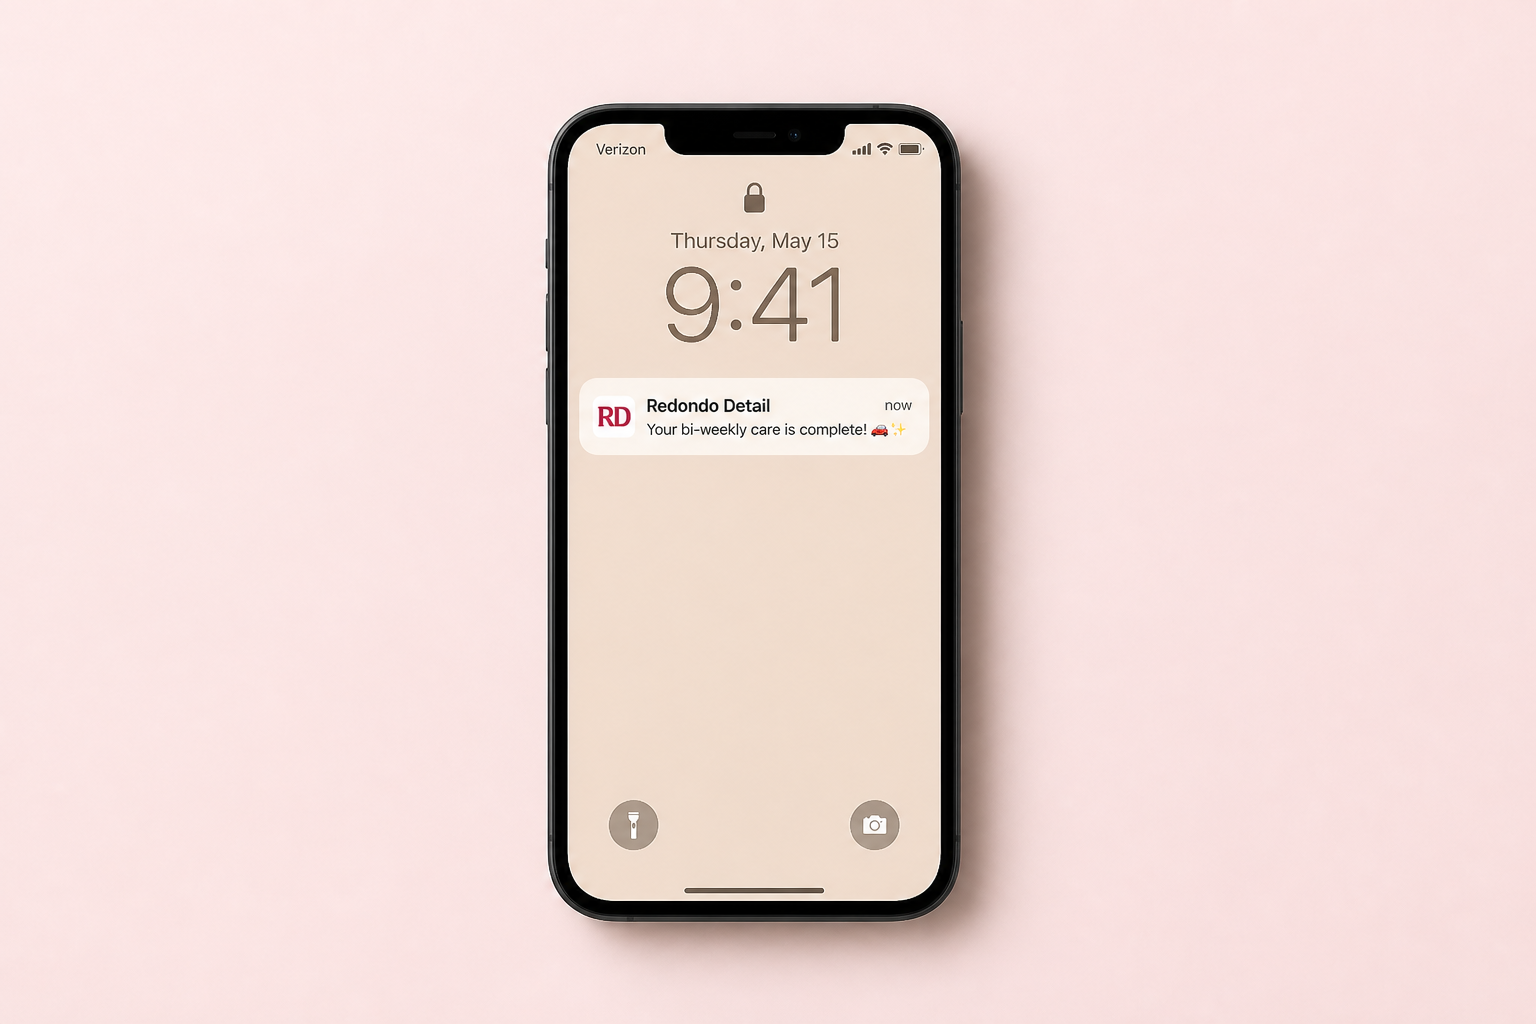
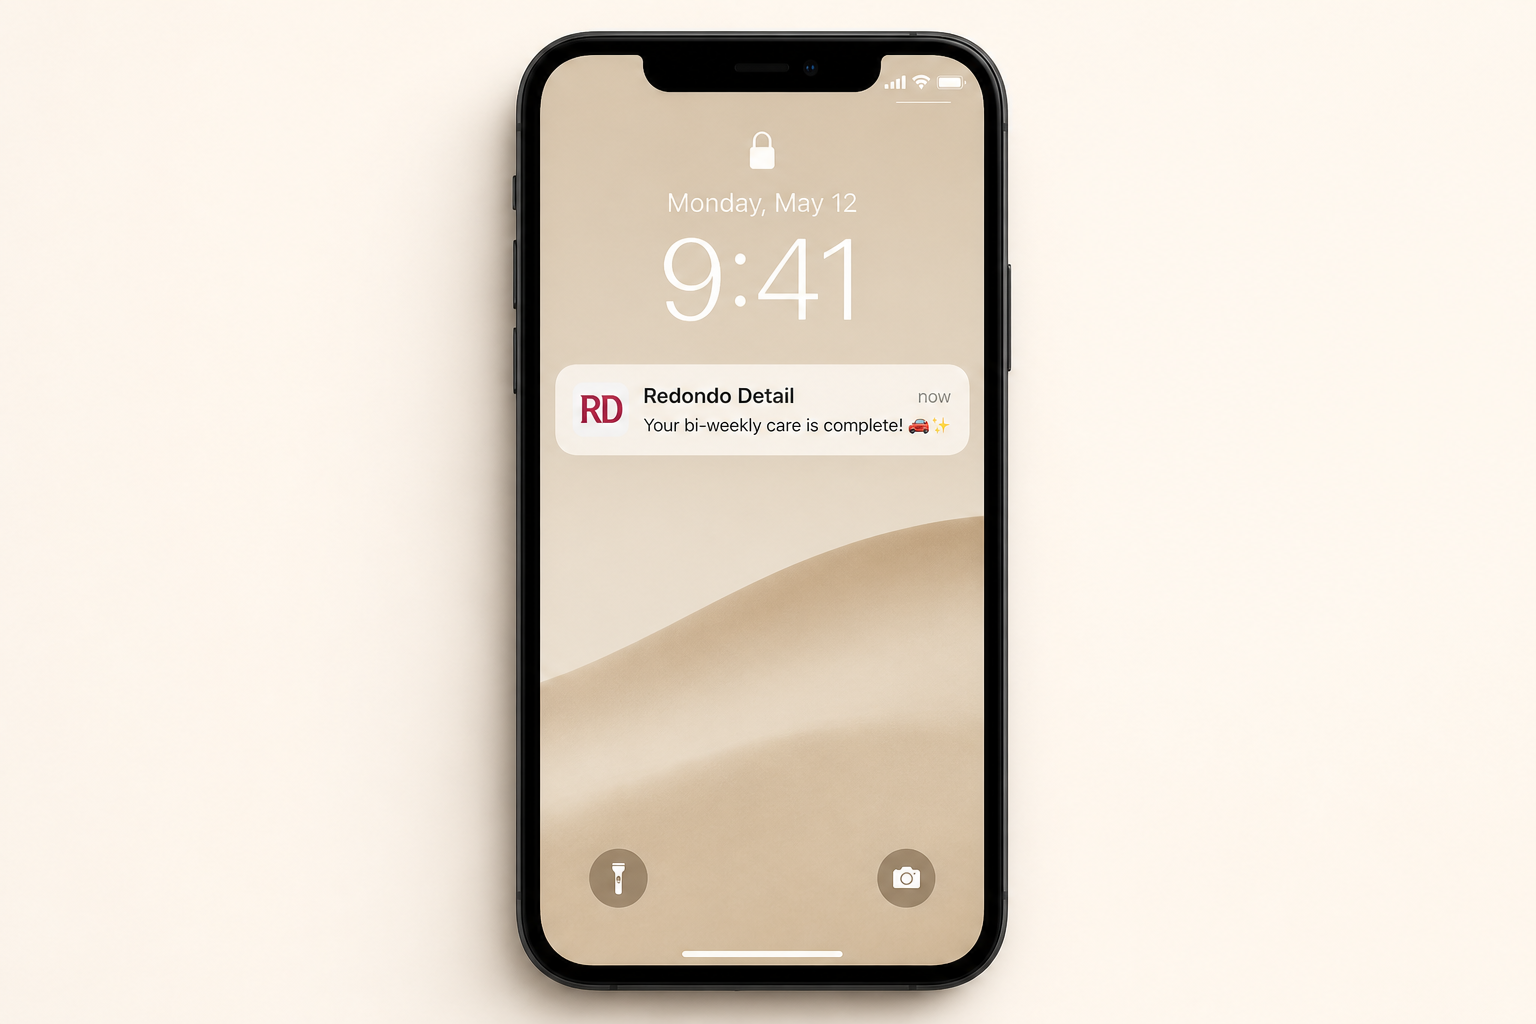
Polish section headlines and Zero Friction visuals for stronger post-proof hierarchy.

Changed region(s): [[0.2812, 0.0312, 0.6875, 1.0], [0.75, 0.875, 1.0, 1.0], [0.9688, 0.4062, 1.0, 0.4375]]

diff --git a/src/components/landing/zero-friction.tsx b/src/components/landing/zero-friction.tsx
@@ -34,8 +34,8 @@ export function ZeroFriction() {
   return (
     <section id="zero-friction" className="bg-white pb-6 pt-16 sm:pb-8 sm:pt-20">
       <div className="mx-auto max-w-7xl px-4 sm:px-6 lg:px-8">
-        <h2 className="text-center font-serif text-3xl tracking-tight text-charcoal sm:text-4xl">
-          Zero Friction
+        <h2 className="text-center text-4xl font-semibold tracking-tight text-charcoal sm:text-5xl">
+          Set It Once. Enjoy All Year.
         </h2>
 
         <div className="mt-12 grid gap-10 md:grid-cols-3 md:gap-8">
@@ -48,7 +48,7 @@ export function ZeroFriction() {
               transition={{ delay: i * 0.08, duration: 0.4 }}
               className="text-center md:text-left"
             >
-              <div className="relative mb-5 aspect-[4/3] overflow-hidden rounded-2xl bg-pink-light">
+              <div className="relative mb-5 aspect-[4/3] overflow-hidden rounded-2xl bg-beige">
                 <Image
                   src={step.image}
                   alt={step.alt}

diff --git a/src/components/landing/coastal-stack.tsx b/src/components/landing/coastal-stack.tsx
@@ -2,7 +2,6 @@
 
 import { motion } from "framer-motion";
 import { Waves, Wind, Sun } from "lucide-react";
-import { Badge } from "@/components/ui/badge";
 import { Card, CardContent, CardHeader, CardTitle } from "@/components/ui/card";
 
 const coastalItems = [
@@ -31,10 +30,7 @@ export function CoastalStack() {
     <section id="coastal-care" className="bg-white py-20 sm:py-24">
       <div className="mx-auto max-w-7xl px-4 sm:px-6 lg:px-8">
         <div className="mx-auto max-w-3xl text-center">
-          <Badge variant="default" className="mb-4">
-            Engineered For Coastal Life
-          </Badge>
-          <h2 className="font-serif text-3xl leading-tight text-burgundy sm:text-4xl">
+          <h2 className="text-4xl font-semibold leading-tight tracking-tight text-charcoal sm:text-5xl">
             Coastal Protection System
           </h2>
           <p className="mt-4 text-slate">

diff --git a/src/components/landing/pricing.tsx b/src/components/landing/pricing.tsx
@@ -29,7 +29,7 @@ export function Pricing() {
       <section id="pricing" className="bg-white py-20 sm:py-28">
         <div className="mx-auto max-w-7xl px-4 sm:px-6 lg:px-8">
           <div className="mx-auto max-w-2xl text-center">
-            <h2 className="font-serif text-3xl tracking-tight text-charcoal sm:text-4xl">
+            <h2 className="text-4xl font-semibold tracking-tight text-charcoal sm:text-5xl">
               Simple, Transparent Pricing
             </h2>
             <p className="mt-4 text-slate">

diff --git a/src/components/landing/redondo-promise.tsx b/src/components/landing/redondo-promise.tsx
@@ -40,7 +40,7 @@ export function RedondoPromise({
           <div className="mx-auto mb-4 flex size-12 items-center justify-center rounded-full bg-dusty-rose/50">
             <Shield className="size-6 text-burgundy" />
           </div>
-          <h2 className="font-serif text-2xl text-burgundy sm:text-3xl">
+          <h2 className="text-3xl font-semibold text-burgundy sm:text-4xl">
             {title}
           </h2>
           <p className="mt-4 text-base leading-relaxed text-burgundy/80 sm:text-lg">

diff --git a/src/components/landing/faq.tsx b/src/components/landing/faq.tsx
@@ -46,7 +46,7 @@ export function FAQ() {
     <section id="faq" className="bg-white py-20 sm:py-28">
       <div className="mx-auto max-w-3xl px-4 sm:px-6 lg:px-8">
         <div className="text-center">
-          <h2 className="font-serif text-3xl tracking-tight text-charcoal sm:text-4xl">
+          <h2 className="text-4xl font-semibold tracking-tight text-charcoal sm:text-5xl">
             Frequently Asked Questions
           </h2>
           <p className="mt-4 text-slate">

diff --git a/src/components/landing/route-calendar.tsx b/src/components/landing/route-calendar.tsx
@@ -86,7 +86,7 @@ export function RouteCalendar() {
             <CalendarDays className="mr-1.5 size-3.5" />
             Route Availability
           </Badge>
-          <h2 className="font-serif text-3xl tracking-tight text-charcoal sm:text-4xl">
+          <h2 className="text-4xl font-semibold tracking-tight text-charcoal sm:text-5xl">
             Reserve Your Bi-Weekly Slot
           </h2>
           <p className="mt-4 text-slate">

diff --git a/src/components/landing/about.tsx b/src/components/landing/about.tsx
@@ -60,7 +60,7 @@ export function About() {
               Meet the Founder
             </Badge>
 
-            <h2 className="font-serif text-3xl tracking-tight text-charcoal sm:text-4xl">
+            <h2 className="text-4xl font-semibold tracking-tight text-charcoal sm:text-5xl">
               Hi, I&apos;m {founderName}!
             </h2>
 
